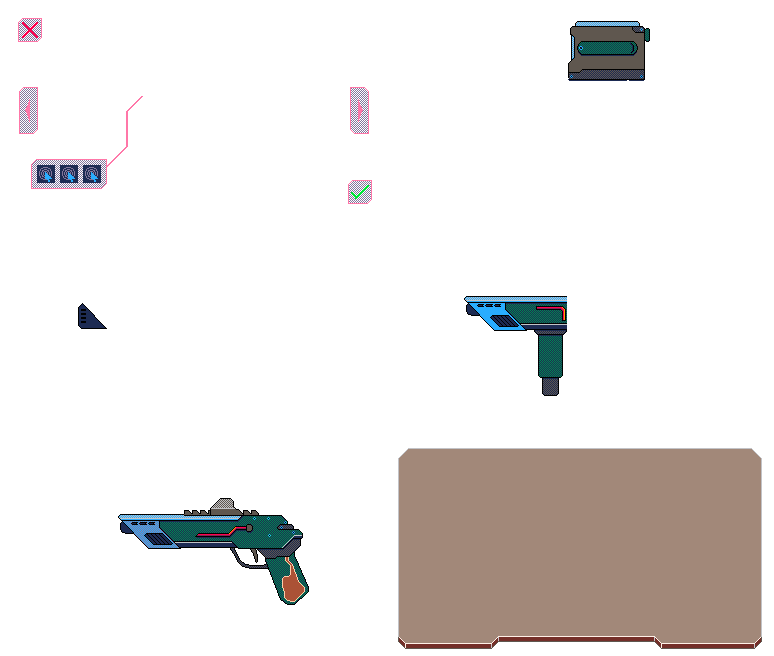
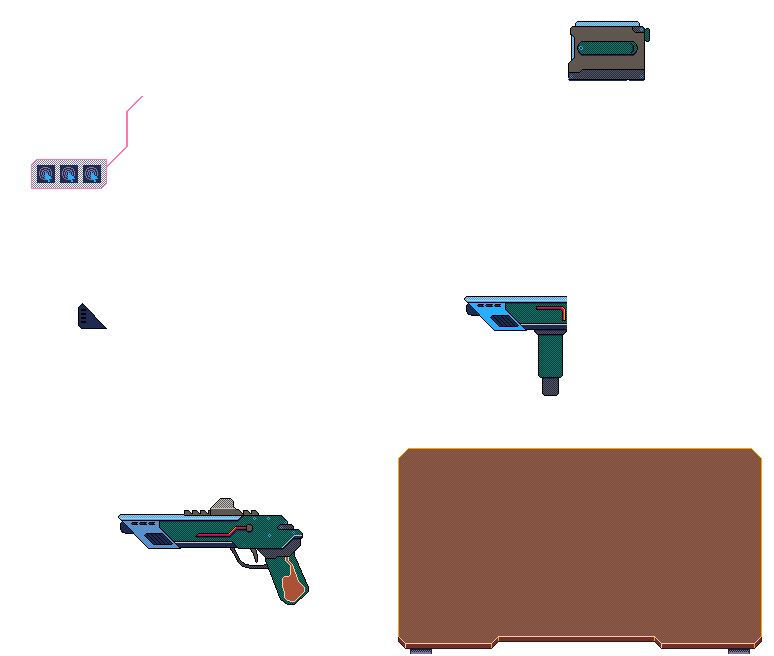
Add highlights to workbench buttons

diff --git a/lib/src/appstate/AppStateWeaponModification.cpp b/lib/src/appstate/AppStateWeaponModification.cpp
@@ -153,12 +153,25 @@ void AppStateWeaponModification::buildLayout()
         };
     };
 
-    auto&& createButton = [](auto&& callback)
+    auto&& createButton = [&](const std::string& textureName, auto&& callback)
     {
         auto&& button = tgui::Button::create();
-        button->getRenderer()->setBackgroundColor(sf::Color::Transparent);
-        button->getRenderer()->setBackgroundColorHover(
-            tgui::Color::Transparent);
+
+        if (textureName.empty())
+        {
+            button->getRenderer()->setBackgroundColor(sf::Color::Transparent);
+            button->getRenderer()->setBackgroundColorHover(
+                sf::Color::Transparent);
+        }
+        else
+        {
+            button->getRenderer()->setTexture(
+                dic.resmgr.get<tgui::Texture>(textureName + ".png"));
+            button->getRenderer()->setTextureHover(
+                dic.resmgr.get<tgui::Texture>(textureName + "-hover.png"));
+            assert(!button->getRenderer()->getTexture().isSmooth());
+        }
+
         button->getRenderer()->setBorders(0u);
         button->setSize({ "100%", "100%" });
         button->onClick(std::forward<decltype(callback)>(callback));
@@ -168,43 +181,39 @@ void AppStateWeaponModification::buildLayout()
     auto&& resumeButtonLayout = tgui::Group::create();
     resumeButtonLayout->setSize(toLayout(24, 24));
     resumeButtonLayout->setPosition(toLayout(346, 178));
-    resumeButtonLayout->add(createButton([&] { onResume(); }));
+    resumeButtonLayout->add(
+        createButton("button-confirm", [&] { onResume(); }));
     dic.gui.add(resumeButtonLayout);
 
     auto&& cancelButtonLayout = tgui::Group::create();
     cancelButtonLayout->setSize(toLayout(24, 24));
     cancelButtonLayout->setPosition(toLayout(16, 16));
-    cancelButtonLayout->add(createButton([&] { onBack(); }));
+    cancelButtonLayout->add(createButton("button-cancel", [&] { onBack(); }));
     dic.gui.add(cancelButtonLayout);
 
-    auto&& cycleLeftLayout = tgui::Group::create();
-    cycleLeftLayout->setSize(toLayout(19, 47));
-    cycleLeftLayout->setPosition(toLayout(17, 85));
-    cycleLeftLayout->add(createButton([&] { onCycle(); }));
-    dic.gui.add(cycleLeftLayout);
-
-    auto&& cycleRightLayout = tgui::Group::create();
-    cycleRightLayout->setSize(toLayout(19, 47));
-    cycleRightLayout->setPosition(toLayout(348, 85));
-    cycleRightLayout->add(createButton([&] { onCycle(); }));
-    dic.gui.add(cycleRightLayout);
+    auto&& swapWeaponLayout = tgui::Group::create();
+    swapWeaponLayout->setSize(toLayout(23, 47));
+    swapWeaponLayout->setPosition(toLayout(344, 85));
+    swapWeaponLayout->add(
+        createButton("button-swap-weapon", [&] { onCycle(); }));
+    dic.gui.add(swapWeaponLayout);
 
     auto&& modSelect1Layout = tgui::Group::create();
     modSelect1Layout->setSize(toLayout(18, 18));
     modSelect1Layout->setPosition(toLayout(35, 163));
-    modSelect1Layout->add(createButton([&] { onModSelected(0); }));
+    modSelect1Layout->add(createButton("", [&] { onModSelected(0); }));
     dic.gui.add(modSelect1Layout);
 
     auto&& modSelect2Layout = tgui::Group::create();
     modSelect2Layout->setSize(toLayout(18, 18));
     modSelect2Layout->setPosition(toLayout(58, 163));
-    modSelect2Layout->add(createButton([&] { onModSelected(1); }));
+    modSelect2Layout->add(createButton("", [&] { onModSelected(1); }));
     dic.gui.add(modSelect2Layout);
 
     auto&& modSelect3Layout = tgui::Group::create();
     modSelect3Layout->setSize(toLayout(18, 18));
     modSelect3Layout->setPosition(toLayout(81, 163));
-    modSelect3Layout->add(createButton([&] { onModSelected(2); }));
+    modSelect3Layout->add(createButton("", [&] { onModSelected(2); }));
     dic.gui.add(modSelect3Layout);
 }
 

diff --git a/lib/src/filesystem/ResourceLoader.cpp b/lib/src/filesystem/ResourceLoader.cpp
@@ -86,6 +86,8 @@ static dgm::ExpectedSuccess loadTguiIcons(
 dgm::ResourceManager
 ResourceLoader::loadResources(const std::filesystem::path& assetDir)
 {
+    tgui::Texture::setDefaultSmooth(false);
+
     dgm::ResourceManager resmgr;
     auto&& loader = Loader(resmgr, assetDir);
 
